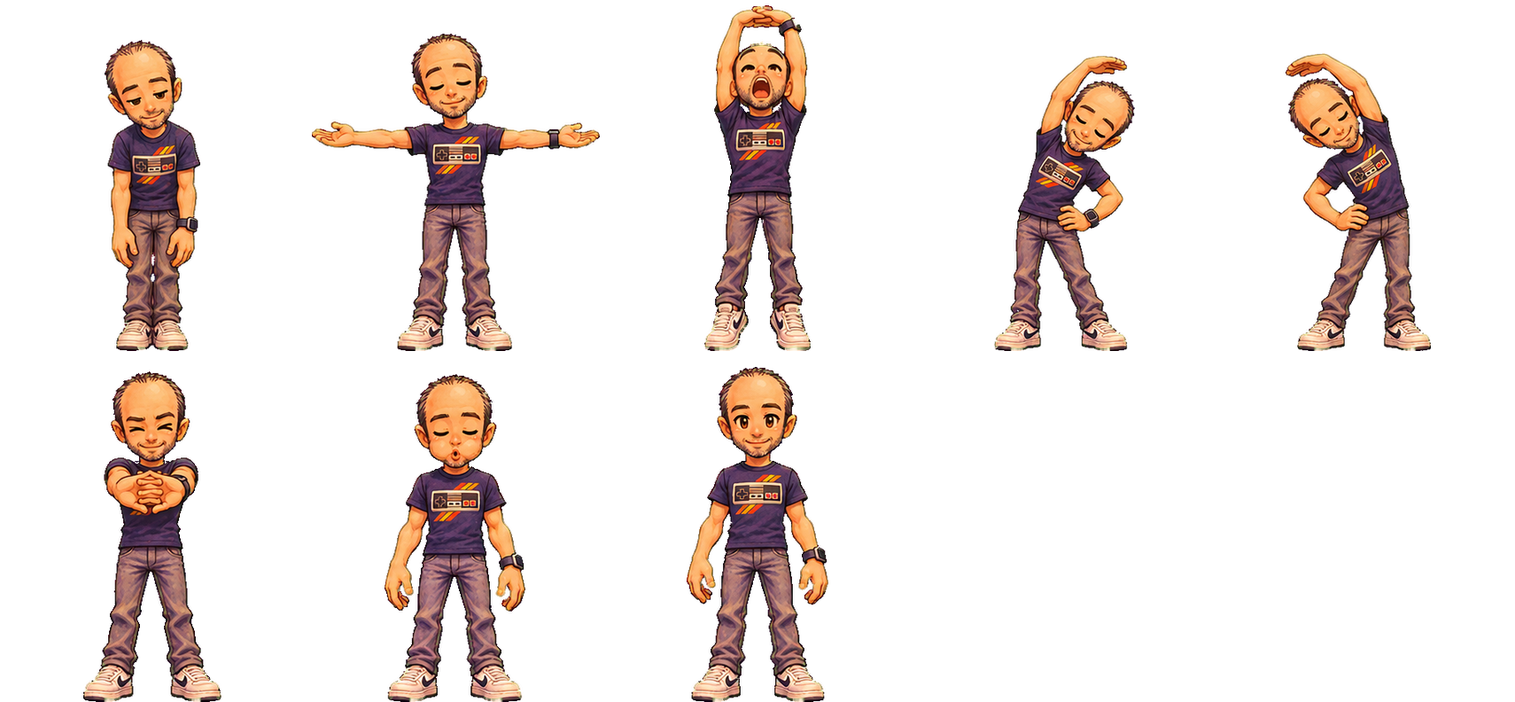
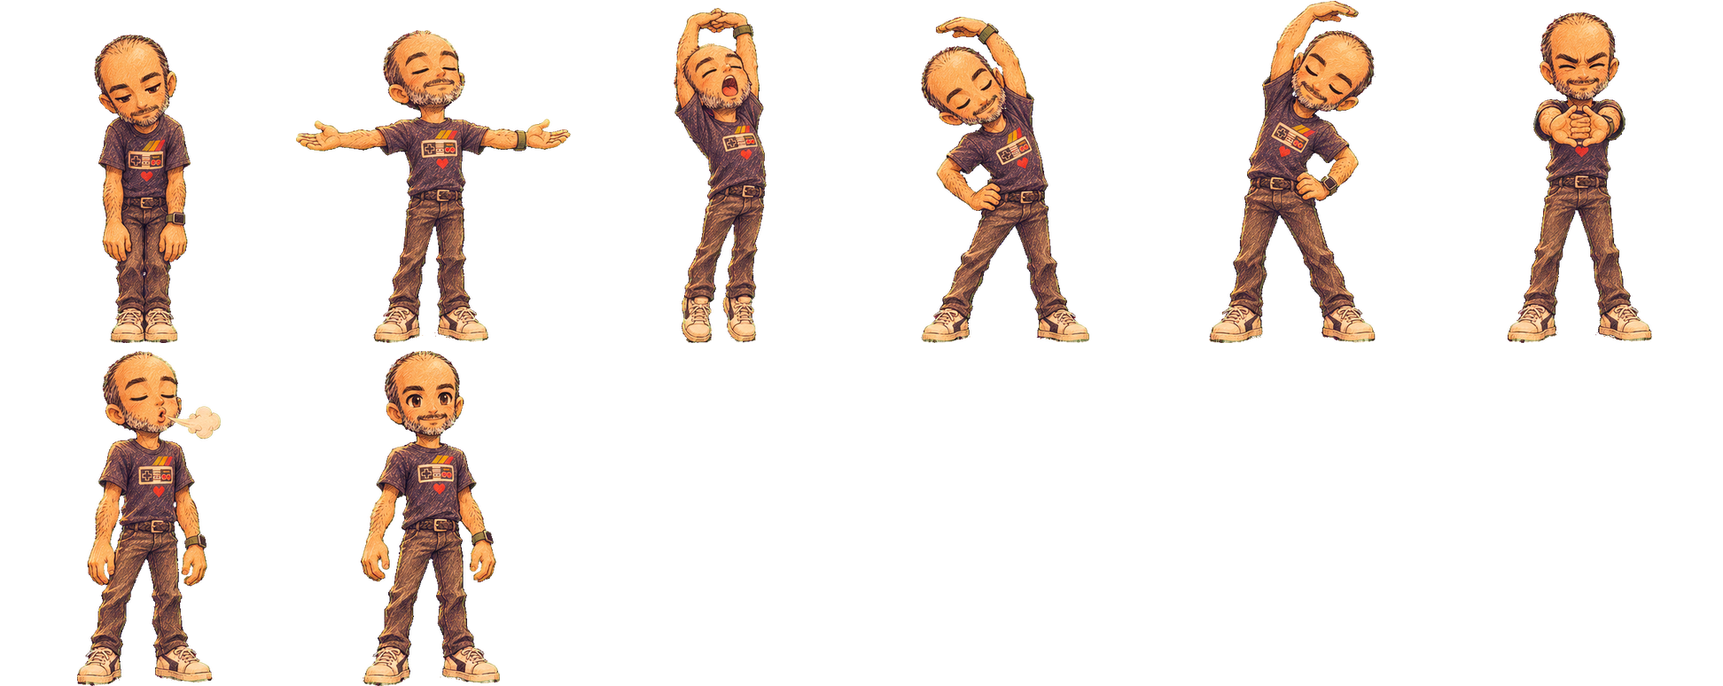
tomstretch2: install Tom's new approved stretch sheet (frames st_stiff to st_fresh)
Claude-Session: https://claude.ai/code/session_01RXeukGgJRkL7Qt5Q4YxBMg

Changed region(s): [[0.031, 0.0, 0.8058, 1.0], [0.8368, 0.0, 0.9608, 0.4961], [0.4339, 0.5271, 0.5579, 1.0]]

diff --git a/data/story-poses.js b/data/story-poses.js
@@ -2,15 +2,15 @@
 // data/story-poses.js — painted cutscene poses (Tom 2026-11-06, storypose1). GENERATED by tools/sprite-bake/bake_story_poses.py; do not hand-edit.
 // rows = small quantized copy of each painted frame at the overworld row scale; atlas = where the painted frame lives (engine/painted.js).
 const STORY_POSES_SRC={
-  tom:{member:"tom",atlas:{"src": "art/chars/tom-story.webp", "k": 9, "rects": {"st_stiff": [0, 0, 342, 396], "st_rise": [342, 0, 342, 396], "st_reach": [684, 0, 342, 396], "st_bendl": [1026, 0, 342, 396], "st_bendr": [1368, 0, 342, 396], "st_push": [0, 396, 342, 396], "st_exhale": [342, 396, 342, 396], "st_fresh": [684, 396, 342, 396]}},pal:{"a": "#2b1a2b", "b": "#38253a", "c": "#4d2731", "d": "#422942", "e": "#4e2e42", "f": "#4b324d", "g": "#563342", "h": "#59384a", "i": "#603d42", "j": "#6d3e3b", "k": "#62434b", "l": "#70494b", "m": "#824c3e", "n": "#9e4928", "o": "#7a4c4e", "p": "#845754", "q": "#815d55", "r": "#a65e37", "s": "#8b5e57", "t": "#bc5c29", "u": "#945f54", "v": "#94685f", "w": "#a46b55", "x": "#a57364", "y": "#cf743a", "z": "#b7775a", "A": "#ac7c6a", "B": "#be856a", "C": "#dd884a", "D": "#d5955f", "E": "#f29c57", "F": "#d9a270", "G": "#f9a85d", "H": "#f5ab67", "I": "#ebb681", "J": "#feb76e", "K": "#ffc177", "L": "#f2c392", "M": "#faca91", "N": "#fbd5a8"},frames:{
-    st_stiff:['......................................','......................................','......................................','......................................','......................................','................jmm...................','...............rDIKDm.................','..............zJJMMKDj................','.............jEGJJKKKj................','.............jEGJJHDDj................','..............yEzHECHrr...............','..............myyEJCwyn...............','..............nyzrJDCy................','..............ntCEEEHw................','................yGyCz.................','................ajzzmb................','...............hbbttuflh..............','..............hkfbglffkk..............','..............ffdhferrbff.............','..............hdgqvzysbfh.............','..............fbejmAljaff.............','..............nrgiuBujjz..............','..............EKjctnfayK..............','..............DGcbcdfarJ..............','..............HKmbdddaCKC.............','..............EJjbfffbrKC.............','..............EHcghegbrK..............','..............EHjxvuwpgvc.............','..............EHpxlcpsmma.............','..............EKDxlauzKG..............','..............HGCzpgvCEK..............','..............yCrzojxrzC..............','...............ymvwjwjyn..............','................rDocBrc...............','................owlcvs................','................lopjol................','................vAlcxA................','................xAicvB................','................ppojsoj...............','................oujcpuc...............','................BFjcBFo...............','...............BLLsoLNF...............','...............NNNwpLNN...............','...............vvFsjFvv...............'],
-    st_rise:['......................................','......................................','......................................','......................................','.................jj...................','...............mCHKFm.................','..............jEJKMMKm................','..............wGJJJFHB................','..............wEwHHzDz................','..............jyEJJJJzj...............','..............jCDCJzwzt...............','..............ttyCEHJCt...............','...............tGGCCEr................','................mCCEu.................','.................jrrn.................','....C............ctCw.................','.CCyyKFIIIEKFihkfdilhklkhBMHIJzcFJyyy.','..CEJGGJKKKJJwddkokmyyhfkGJJKKHgEJGEy.','.........ttnyjaaqqADsvkactttyy.a.yy...','...............aocvArre...............','................kuCzssd...............','................frtjffb...............','................bfffff................','................ffffffb...............','................ffffffb...............','...............bdddddea...............','...............iuvssvvj...............','...............oAvpopAp...............','...............sBpaaoAs...............','...............sAsbapBu...............','...............sAvc.pAv...............','...............pAu..sAs...............','...............uBp..lBv...............','...............xAi..gxx...............','...............hpm..jpg...............','...............vvl..jsx...............','..............lBAc..cvB...............','..............ovsc..csvo..............','..............ippj..ippl..............','..............qxla..clxu..............','..............LLAa..aALL..............','.............NNFv....qFNL.............','............LNNIBu..wBINNL............','............qvLFl....lAIAs............'],
-    st_reach:['......................................','.................MECCM................','................JGtttEDv..............','...............IJn...ccu..............','...............KE.....rK..............','...............ME..I..CMF.............','..............HMyjDMDcrKH.............','..............HHrHJJHHrHH.............','..............GyzrrGwwzyG.............','..............GDrHECGHrCG.............','..............JCyKrcrJtEJ.............','..............JCnDrntDrEH.............','..............ECcjBEzccGE.............','..............robannnabun.............','..............bfdajnjbefa.............','..............bbfkfirreb..............','...............bqqxDwvla..............','...............dqcuAmnlb..............','...............dosBFxwlb..............','...............bhttnhhf...............','................ekhfhhb...............','................dfffffd...............','................ffffhhd...............','...............bfdffddd...............','...............aekhgiic...............','...............iAAvxAAs...............','...............oAslgkxx...............','...............pBvbakAA...............','...............uBve.hxB...............','...............uAvg.ivA...............','...............lAx..jxu...............','...............wBo..cxB...............','...............opo..covi..............','...............ovj...pll..............','..............pApc...lAu..............','..............vxl....gvx..............','..............kspa...lso..............','..............qvkc...gpv..............','..............BFj....cAF..............','..............IIFj...AIL..............','..............NIvu...sBNB.............','.............NNLA....pLNL.............','.............NNNB....xLNNI............','.............ALI......BNFw............'],
-    st_bendl:['......................................','......................................','......................................','......................................','......................................','......................................','......................................','......................KKEyy...........','.....................KGytnt...........','....................KJ................','...................KKt.mwc............','..................EKCcBJKHr...........','..................JCcmJKMMKm..........','.................CKynDzHKKKw..........','.................HJtrDEGHJJr..........','.................JCjEzHJCyCc..........','................jwdcDGGzHyc...........','................dfbaDCEErn............','................addmrzzrn.............','................bqlfjca...............','................llvwngfd..............','...............dqlwzzudkh.............','...............dryBumhafo.............','...............fknlqoa.cCH............','..............bffffda...CKE...........','..............ffffeic...KJy...........','..............ddffgrE.azJy............','..............oogdiCEJui..............','..............AvvvsmrCr...............','.............lBpeipsi.................','.............lBvbakAA.................','.............oAve.esBp................','..............xxc.csAs................','.............oBv...lBx................','.............sBl...cpBl...............','.............els....opl...............','.............oxs....gvB...............','.............sBl....clAw..............','.............pvo.....ivp..............','.............lvo.....iouj.............','.............FBl.....aoFF.............','............LNFv......sFNI............','...........LNNAB......AANNN...........','...........vAIBq......oAIBv...........'],
-    st_bendr:['......................................','......................................','......................................','......................................','......................................','......................................','......................................','...........DHKJI......................','.........tytttyKM.....................','...............tJMH...................','............rzzcyGKC..................','..........cCMMKDanHH..................','..........rJKKKHunEKD.................','..........yGJKFzHnyKH.................','..........rGHDHHwCczGm................','..........cyyDHGDGmbog................','...........ctEzEEEjadf................','............ntEEECrdfb................','..............mrmnuirkb...............','................acdywqk...............','..............bffkvBmrq...............','.............bhffqlxBqkd..............','.............rhbakiztfhd..............','............EGta.bltjfff..............','............JE....addfff..............','............CKF...meffffb.............','.............EKDyHCidfdec.............','..............CGGGDmeipxl.............','................CrmpxvsAq.............','.................csvkckBp.............','.................wBpaapBp.............','................mBxl.csBs.............','................lAAj..vAo.............','................wBp...oBp.............','...............ixvi...iAu.............','...............lou....poi.............','...............xvg....oxu.............','..............wxlc....iBw.............','..............lvs.....oso.............','.............jwpj.....lsp.............','.............BFva.....iAF.............','............LNFAi.....qBLL............','...........LNNBAA.....BANNN...........','...........sALBu......pxIFv...........'],
-    st_push:['......................................','......................................','......................................','................jmrwr.................','...............mEJKMKz................','..............jCGJKKKJm...............','..............jEGHJJJJw...............','..............cCGJJHDDm...............','..............cryrGCrCm...............','..............trynEErztt..............','...............tCEGEHCt...............','...............nCGyCEy................','.................wCEz.................','...............d.crrj.df..............','.............cwuacjmcbwwb.............','.............jJHuzyywmzHj.............','.............rHFGyCCCJwwr.............','.............nEGCtCCyCGj..............','..............nGJyyyyKy...............','...............jrCnyCrc...............','...............acjjgbab...............','...............abaaabf................','...............addddffb...............','...............dfffhffb...............','...............adeeddea...............','...............lvvvuxxj...............','...............vxvopvAs...............','...............AAkabpAv...............','..............lBAo.apAA...............','..............oAAo..lAA...............','..............lAxl..oxA...............','..............iABj..iAB...............','..............wFsc..cpFw..............','..............hsu....osi..............','..............oov....sls..............','..............xAo....kxA..............','.............sBxi....gvBo.............','.............ispl....ivpl.............','.............jvpj....ipup.............','.............AAoa....blxA.............','............FNLFc....aAINI............','...........LNNFqq.....qANNL...........','...........NNNIBw....vBFNNNF..........','...........qvFFl......ivIAqq..........'],
-    st_exhale:['......................................','......................................','......................................','.................cmmm.................','................wEJMKw................','...............mGJKMKJz...............','..............cCGJJJKKEj..............','..............cCGDHHzDDc..............','..............aryrEGCCya..............','..............rrEGEGEHzn..............','..............ttyrEGrryt..............','...............tEJEEKJy...............','................CKCCKG................','.................yyyyt................','.................cttn.................','...............hbbjjhflh..............','..............hhhfbgrmhk..............','..............fdqvADCxffe.............','.............fddqizxjphbh.............','.............jiaolBBzwbcj.............','.............EGjhyymkhcEE.............','.............EEcemjfhfbCH.............','............FKC.dffhff.yJI............','............HKEaffffffaCKJ............','............KE.bffffffb.CK............','...........DKt.beffdfgb..Dv...........','...........HE..oxvvvxxp..gqa..........','...........JJ..xApkkpAx..DE...........','..........EKJD.AAoaapAB..KKC..........','..........CEyE.BAp..kAB.GCEC..........','..........tEn.kAAo..lAB...Et..........','...........yt.hAAl..lxAk.ty...........','..............pFAi..cxFp..............','..............oAp...cpBp..............','..............hkv....vkh..............','..............vxp....oxx..............','..............AAi....kAA..............','.............lpsl....lvpi.............','.............gspo....osvj.............','.............sBpb....bpBx.............','.............NLFc....gILLB............','............NNIqq....vqFNN............','...........LNNLBx....xBLNNN...........','...........qqFIo......qFLvs...........'],
-    st_fresh:['......................................','......................................','.................jmmc.................','................wHKMHr................','...............rGJKMKKm...............','..............jEHJJKKJz...............','..............cCCDJFzEz...............','..............ayyyHCrCr...............','..............nrrjGEczrr..............','..............ttDrHHyHtt..............','...............tEJCCGEr...............','................rECCDr................','.................mzDm.................','.................nttr.................','................bcnukfk...............','..............hkhffjrpkh..............','..............ffvvACywff..............','.............hdgqjBxjqgdh.............','.............ebdooBAzwbdg.............','.............CycoyypkkcyC.............','.............HGcgnjfhfjEH.............','............HJy.fffhff.yKF............','............KKyahhffff.CKH............','............KE.bfffhff..EK............','...........DK..dfdddefb.tHw...........','...........JE..ippqsvvi..ila..........','...........KH..xAvppsAs..zCc..........','..........DJK..AAlacsAv..KK...........','..........CECE.BAoaapBA.CCHE..........','..........tEn.lBAp..lAB.C.Ey..........','...........yt.lAAl..oxA..tC...........','..............hABl..iBB..n............','..............wFvc..csFw..............','..............hpv....psg..............','..............oovj...sop..............','..............xBs....oAx..............','..............Axk....kxA..............','.............ispo....lspj.............','.............ivvl....lpvj.............','.............vBpc....boBx.............','.............NLIi....cFLN.............','............NNLvq....qqLLN............','...........LNNLBw....ABINNM...........','...........qvBIq......lBIvs...........']
+  tom:{member:"tom",atlas:{"src": "art/chars/tom-story.webp", "k": 9, "rects": {"st_stiff": [0, 0, 324, 387], "st_rise": [324, 0, 324, 387], "st_reach": [648, 0, 324, 387], "st_bendl": [972, 0, 324, 387], "st_bendr": [1296, 0, 324, 387], "st_push": [1620, 0, 324, 387], "st_exhale": [0, 387, 324, 387], "st_fresh": [324, 387, 324, 387]}},pal:{"a": "#462c33", "b": "#543639", "c": "#5e3838", "d": "#5f3d3f", "e": "#673e3a", "f": "#654242", "g": "#6c433e", "h": "#6d4643", "i": "#704842", "j": "#7b493e", "k": "#724c47", "l": "#794d46", "m": "#7f4e42", "n": "#815245", "o": "#845747", "p": "#8b5645", "q": "#9e533d", "r": "#92604a", "s": "#9a624a", "t": "#a6623f", "u": "#99684c", "v": "#a96949", "w": "#aa6f4e", "x": "#ad7552", "y": "#bf7546", "z": "#c87843", "A": "#b38058", "B": "#d77b3e", "C": "#c58959", "D": "#d78a4c", "E": "#e68a45", "F": "#d5955d", "G": "#ef9a51", "H": "#d69f68", "I": "#f4a55b", "J": "#eab06f", "K": "#feb161", "L": "#f7bc74", "M": "#fac57e", "N": "#fcd399"},frames:{
+    st_stiff:['....................................','....................................','....................................','....................................','................m...................','..............yFIJAj................','.............yIKMNMCb...............','............jIKKLLKKj...............','............tGIKKKKIv...............','............mGKKKItzyy..............','............eBzyIEyzyz..............','.............ptyBKxtGt..............','.............typDKLKD...............','.............ttEGzyzA...............','...............vytDAh...............','..............mbcqvpkx..............','.............pnbaeqkkor.............','.............nkbdbdqmdo.............','.............lkahlyEjao.............','.............rkapAHxhbro............','.............gkbmuCtedlg............','.............tzbdryoaqy.............','.............GKcahqdaBK.............','.............FKmbddfcEI.............','.............DKqahkbeGG.............','.............zIjagjaaGG.............','.............yIgfiiicyA.............','.............zKjgcegcja.............','.............GLCpbaisGz.............','.............KLKvkbpDMK.............','.............BIGvmgsBII.............','.............tEzppgrtGz.............','..............qqxpgxpq..............','...............isicno...............','...............jdeben...............','...............glgeps...............','...............jsddso...............','...............meedej...............','...............iuibrr...............','...............AHurHC...............','...............JJAuJJA..............','..............JNNHANNL..............','..............CAHCAHAH..............'],
+    st_rise:['....................................','....................................','....................................','....................................','...............CJLM.................','.............mGKLMMM................','.............yIGyHLCw...............','............cyEvFIKGI...............','............jsEGFDKFC...............','............plyGyIGzIz..............','.............pjBIzyzDC..............','.............EyxzCKIJC..............','.............EBrAuAAA...............','................cqqj................','.................EKD................','....J........wxrfsxrlwu.........I...','....DLH.JJJCwrkoohhtBpkrwJJJCxJKG.F.','.FIFKKLLLLLGmfddkxCGDlaftIKLIuIKLID.','..DGGE..BByqbdaaouAHyoadc.zBqb.ED...','...............akxACxo..............','...............bfkmBlk..............','...............jffklkf..............','...............efkhkkk..............','...............goffkkh..............','...............cbblmeb..............','...............jimijli..............','...............jsrnmnm..............','...............jrnbaim..............','...............mrgabps..............','...............nrp.grx..............','...............pwn.esv..............','..............svw..gsu..............','..............jvr..inu..............','..............roc..cgb..............','..............sde..ggp..............','.............enpj..ens..............','.............svsc..cps..............','.............jcig..jjie.............','.............uxmg..eguw.............','............pHHA...eAHHu............','............JJJx...FrHMM............','...........JNNHCC..FxHMNL...........','...........xCJH......CJJF...........'],
+    st_reach:['....................................','.................Dz.................','..............ILIDDILH..............','..............Kzjqqjru..............','..............LD....pF..............','.............FLD....EMF.............','.............IGFMMMCyKF.............','.............GBGyIKFyII.............','.............yBzFDIGCGI.............','.............ztGzGICIGI.............','.............GvBGKyczHF.............','.............GGjDIBBDCy.............','.............BChAFCGFkl.............','.............jokbnmscbol............','.............dfkbeBEedf.............','..............fffhpwpqc.............','..............gddlklzEl.............','...............ddhuxHCw.............','................fdruxCxr............','................cdfklqnk............','.................cffkkkk............','.................jdfhkoi............','.................ehlkfkl............','.................mkbcnib............','.................ecggmgc............','.................pnrsprm............','................tuwpefnj............','................jsrgabp.............','................mplcblu.............','................jpm.epu.............','................rwm.jur.............','...............jwr..jro.............','...............vrb..pfa.............','..............trhg.pll..............','..............eprc.eru..............','..............supg.spon.............','..............pglc.eeme.............','..............rCA..uwH..............','..............FHC..CHH..............','..............AHA..nHC..............','..............MMH..HMM..............','..............MNM..CMNJ.............','..............yFA...FFt.............'],
+    st_bendl:['....................................','....................................','...........HLMM.....................','..........zyyGKCj...................','............qqeoF...................','...............jKL..................','..........xCHx..DKI.................','.........FLNMLI..GKD................','........tKKLLKFt.BKG................','........zKKKKItKyyKK................','........DIKKIIKCztDLD...............','........qGGtzKKFGAlFz...............','........cwzBICKGyCdkoe..............','.........dmByDDtIuahk...............','..........tqBGyFAnbhd...............','...........BprretGkkf...............','..............abywozob..............','.............rlkfdzEAn..............','............skklkuCCyr..............','...........wohbakxrHvr..............','..........Jyffaadooqqll.............','..........LEea..bbfkkkd.............','..........GKD...cddhllo.............','...........EKD.DDgdfhdc.............','............DKEKGjacoea.............','.............EIGyggeiej.............','...............ejnurppp.............','...............crvoeagp.............','...............ssmcabis.............','..............vwpi..dmxw............','..............ssre..cnww............','.............CAug...bmxs............','.............upo.....ewA............','............rmog.....goi............','............vsg......gig............','...........rxpg......glrr...........','...........CAj.......clsu...........','..........jpmc........enog..........','..........urmj........jgmo..........','.........rHHua........aoHH..........','.........JJHx.........xxHJH.........','........NNMAC.........FCuMNN........','........FHJCu..........xAHJH........'],
+    st_bendr:['.....................MMJ............','...................JLKEvDy..........','..................JMBjqq............','.................JLG................','.................KKG.pCFyt..........','................EKG.tKKMMKv.........','................GK..yGKLMMKj........','................KKtzGqIKKLLy........','...............EKztzFGGKKKKy........','...............yyfyGyIKBtGGj........','..............glhbCyGKDGDyya........','..............ikdaoGtDGtEpc.........','...............ddacCIyDEqt..........','...............dkbttpsxpBB..........','...............lkfoyc...............','..............plxrjjfkr.............','..............puuAFBqlur............','..............oouHyxhbhww...........','.............yofqyxrabhlw...........','.............rffqqkfaadjGL..........','.............rofhffa...zKK..........','............srfhhfdr...IKB..........','.............baolbjII.kFB...........','.............jclecjEKIne............','............mvsnprjtDGt.............','............jpgipppia...............','............mpcaadprg...............','............ssjb.cjsu...............','............wspc.blpxs..............','............wvp...grwu..............','...........gvwg....pvs..............','...........rArc....bpAv.............','...........wspc....cpnj.............','...........eeic.....cirp............','...........ggoi.....egpx............','...........psp......enpvj...........','...........smc.......cpsu...........','..........jghj.......egeng..........','..........ACpe........gnAx..........','..........CHHi........iHHHu.........','.........MJJuC........FoJJN.........','........LNNJxH........DxHMNN........','........AHJJy..........sCJJH........'],
+    st_push:['....................................','....................................','...............myIICp...............','..............pIKKMNMp..............','.............czIIKLLLC..............','.............gzIKIKKKG..............','.............iyEFKKIDC..............','.............itzjtEjtzt.............','.............BqBvzGyDzt.............','.............ByBGGGFGD..............','..............qyyyyyCA..............','................rDFHr...............','..............p.ajpj.j..............','.............CHgoyvsfHx.............','.............FMHDyvDHFGc............','............aEIIEEGBKAya............','............amEIEEEBKzc.............','.............acDGyxGDb..............','..............eafqtjba..............','..............jfaeqdk...............','..............rfdffkfk..............','..............jlhdffkf..............','..............gbbomcf...............','..............ejiiggj...............','..............rsrprrrj..............','..............sslgcgri..............','..............vsiaaism..............','.............txne.clss..............','.............svri..luw..............','.............pws...gsx..............','.............vxo...crx..............','............jxxg...epxs.............','............mvic....jec.............','............tme.....jhm.............','............pjp.....jmv.............','............svp.....irw.............','...........vwoe.....blpr............','...........gmge.....gngj............','...........AHue.....egrHx...........','...........HHHk......uJHC...........','..........NMMuA......FoMNN..........','.........HNNJCC.....xFxJMNJ.........','.........yHJJy.........FJHx.........'],
+    st_exhale:['....................................','................wFJ.................','..............jDKLMNL...............','..............yIKKLLMJ..............','.............eBGztILyt..............','.............eyEyIIKKI..............','.............mpEGCDKDy..............','.............pjyEzIGGIy.............','.............EBtEIKIDLt..NN.........','..............EyCGIGBJJNNNNN........','...............cnuwFF..NNNN.........','.................qtp.....N..........','..............FygtIDex..............','..............Asoksrlup.............','.............rpfhlhpBqf.............','.............vobbrxFFpb.............','.............wobaurHypdr............','.............endauuCAmbl............','.............zBabfhqqdjq............','.............LGcdfllkbzK............','............HKIefkfhkdBKy...........','............DKGmrdfhfhBID...........','............DKBeddgrnbtID...........','............BG.aeecjcb.GI...........','............GG.mprporj.txd..........','............LK.pvrjein.pCj..........','...........LMKxsujaalp.KME..........','...........GKGvspgados.GIG..........','...........zGEvssi.epwvBGz..........','............Bqjwo..epw.BB...........','.............twxg..epw..............','.............pxs...miwu.............','.............sob...bnga.............','............spde...tmfg.............','............jnom...mlpp.............','............pwpc...cmsp.............','............vog.....ilm.............','............jdh....tjcn.............','...........uHAe....ceuCH............','...........AHJu.....uHJHA...........','..........MNMHu.....LkCMNN..........','..........MNNHx.....FAFMMNF.........','..........AFJF..........H...........'],
+    st_fresh:['....................................','...............tFFA.................','..............yKKLNJ................','.............tIIKLLMH...............','............ayGKKKKKIj..............','............gvEvyKIvym..............','............ipBjjIGewu..............','.............mzupKKwCy..............','............BBtIIGDGGy..............','.............BtDzyyyC...............','...............uwFIH................','................enr.................','................tBE.................','.............FxokooorA..............','.............wkolktBto..............','............rldbuAHCwfh.............','............AlaaurHAybl.............','...........cjlbaouxxrbke............','............ztabdfqqkgq.............','............Kz.bkkfkkqI.............','...........JK..edkolhpKI............','...........IK..ohhhfdpGI............','..........DKE..kbaoocaEKD...........','..........FK...cgfigg..IC...........','..........KG...pouppri.mwb..........','..........KL..mvwoicmm.ALz..........','.........LMIF.vxseabrp.KLI..........','.........zIDD.vwmcaisr.DGG..........','..........EE..vsr..luv.BIz..........','..........qt..swo..jru..z...........','.............xwxg..esu..............','.............pAp...gpx..............','.............unb...bnc..............','............ppee...phi..............','............jmpj...jiv..............','............txr....bmup.............','............spm....biop.............','...........emgn.....mel.............','...........rHAn.....brCC............','...........AHHx.....rCJHA...........','..........MNMHu.....MfCMNN..........','..........MNNHC.....JCFLNNH.........','..........CHJH.........JJH..........']
   }},
   grace:{member:"grace",atlas:{"src": "art/chars/grace-story.webp", "k": 10, "rects": {"sq_hide": [0, 0, 220, 400], "sq_reveal": [220, 0, 220, 400], "sq_raise": [440, 0, 220, 400], "sq_show": [660, 0, 220, 400], "sq_hug": [880, 0, 220, 400], "sq_squeeze": [1100, 0, 220, 400], "sq_careful": [1320, 0, 220, 400], "sq_wave": [1540, 0, 220, 400]}},pal:{"a": "#381f23", "b": "#4d2727", "c": "#532e2f", "d": "#5a3335", "e": "#5f3a37", "f": "#6e3a33", "g": "#71433e", "h": "#7e453b", "i": "#8c4937", "j": "#875244", "k": "#99533d", "l": "#b0602a", "m": "#965a4a", "n": "#976540", "o": "#a65e48", "p": "#b06b37", "q": "#bd6c30", "r": "#9b665d", "s": "#b06257", "t": "#aa6c61", "u": "#ae7656", "v": "#ce7d3c", "w": "#bf7652", "x": "#b87d58", "y": "#b96d6f", "z": "#bd8260", "A": "#bc8a64", "B": "#d88d49", "C": "#d79955", "D": "#ce8078", "E": "#cc8d77", "F": "#ea9d55", "G": "#db8e85", "H": "#d79a83", "I": "#f1ac62", "J": "#e8a08a", "K": "#f0ae8c", "L": "#f8b67d", "M": "#f9bd87", "N": "#fbc686"},frames:{
     sq_hide:['......................','......................','........BCFNC.........','.......qvvBINv........','......pIFlkwIIp.......','.....pCBvqivIFp.......','.....klqFIFvIIFF......','....ovlBLIILvqBvq.....','....wifFFILIBpbqB.....','...mfffvwFLCnpiqv.....','....hilvunNCxBiBl.....','....klfoFILLIujlFq....','...jvljDwCIIxJKjvIC...','...vFfryyrpoDDEmllv...','...kqctGytryyDMtli....','...iqfDyKDGDKJGEiF....','....ikGrJJKGKGyJfq....','....ihDrDDJDHHyDfq....','....iyDjDGKJJDmJn.....','.....jDgDJJKJDrD......','......jDDJGGJJEd......','......rJJMJJMKK.......','.......yyDGDtyG.......','.......yDyjbghg.......','.......bgmcatra.......','.......dgrbafjh.......','.......rgggcgrt.......','.......bgjgdGga.......','........tDcbrhb.......','.......cjjcaamD.......','.......jgecdjbe.......','.......dcegghdc.......','.......abebaeh........','........rEjmJH........','.......AxzzAxuE.......','.......zturrurA.......','.......rHEjjEJx.......','.......KNKttKMM.......','......EMJMEELJNH......','.......jcnAAncj.......'],

diff --git a/engine/painted.js b/engine/painted.js
@@ -11,7 +11,7 @@
 // Atlas: one image of equally sized frames at K times the rows' resolution. Battle sheets are K = 3 (Boppy 4) since sharp1
 // (2026-11-05, Tom: the party looked blurry in battle; K = 2 was stretched up to 1.45x on a phone). See tools/sprite-bake/hires.py.
 // ART_V: cache tag for every painted atlas image (2026-11-01, heads1: all adult battle heads re-baked).
-const ART_V='tomride3';
+const ART_V='tomstretch2';
 const PAINTED={};
 // Cast ids that own painted sheets (paintedOwners, below). Longer prefixes first: tomride before tom.
 const PAINTED_CAST=['tomride','tom','grace','rose','tnb','amy','deedee','boppy','nara','justin','olivia','jojo','michael','ellie'];

diff --git a/tools/sprite-bake/bake_story_poses.py b/tools/sprite-bake/bake_story_poses.py
@@ -27,7 +27,7 @@ COLORS = 40
 
 # id: sheet, K (= that character's overworld K), standing height in rows (= its overworld stand frame), reference frame, frame names in reading order.
 SETS = {
-    'tom': {'sheet': 'tom-stretch-intro-sheet-v1.png', 'k': 9, 'h': 42, 'ref': 'st_fresh',
+    'tom': {'sheet': 'tom-stretch-intro-v1.png', 'k': 9, 'h': 42, 'ref': 'st_fresh',
             'names': ['st_stiff', 'st_rise', 'st_reach', 'st_bendl', 'st_bendr', 'st_push', 'st_exhale', 'st_fresh']},
     'grace': {'sheet': 'grace-squishy-intro-sheet-v1.png', 'k': 10, 'h': 39, 'ref': 'sq_squeeze',
               'names': ['sq_hide', 'sq_reveal', 'sq_raise', 'sq_show', 'sq_hug', 'sq_squeeze', 'sq_careful', 'sq_wave']},
@@ -112,11 +112,6 @@ def stand_frame(cid):
     im = Image.open(os.path.join(ROOT, src)).convert('RGBA').crop((x, y, x + w, y + h))
     return im.crop(im.getbbox()), k
 
-
-# Tom's stretch poses (Tom 2026-11-06 16:02: "his stretching states are also not the same size as his regular body"). Compared in the real game against his
-# standing frame (not by bounding box: raised arms and bends change the box): the two side bends read about 15 percent bigger in head and torso, Stiff and Rise
-# heads about 5 percent. Factors are one uniform scale per frame about the feet; Reach (arms overhead, head reads smaller) is left as painted.
-STRETCH_FIT = {'tom': {'st_stiff': .96, 'st_rise': .96, 'st_bendl': .88, 'st_bendr': .88}}
 
 def npc_emo_head(pid):
     """Strip px per standing-frame atlas px for a townsperson (see the npcemo7 note above)."""
@@ -265,8 +260,6 @@ for cid, S in SETS.items():
     f = S['h'] * S['k'] / figs[S['ref']].height
     if 'strip' in S and S['member'] in EMO_HEAD:
         f = S['k'] / (EMO_HEAD[S['member']] * stand_frame(S['member'])[1])   # strip px -> standing px -> game rows -> atlas px
-    if cid in STRETCH_FIT:
-        figs = {n: (im.resize((round(im.width * STRETCH_FIT[cid].get(n, 1.0)), round(im.height * STRETCH_FIT[cid].get(n, 1.0))), Image.LANCZOS) if STRETCH_FIT[cid].get(n, 1.0) != 1.0 else im) for n, im in figs.items()}
     big = place({n: scaled_to(im, f) for n, im in figs.items()}, S['k'], {n: v * f for n, v in S.get('feet', {}).items() if v})
     small = {n: hard(scaled_to(v, 1.0 / S['k'])) for n, v in big.items()}
     pal, rows = quantize(small, COLORS)

diff --git a/docs/CHANGES.md b/docs/CHANGES.md
@@ -1,3 +1,8 @@
+## 2026-11-13 (tomstretch2): Tom's new approved stretch sheet is in the game (tag tomstretch2)
+- Tom 18:45: "approved new images there, implement in the game now" (Art Library `tom-stretch-intro`, new picture `art/raw/characters/tom-stretch-intro-v1.png`, 8 frames, 4 x 2).
+- Fact: `tools/sprite-bake/bake_story_poses.py` set `tom` now cuts the new sheet (same frame names `st_stiff` to `st_fresh`, same order and 42-row standing size, so `engine/intro.js` `STRETCH_SEQ` is unchanged). Rebuilt `art/chars/tom-story.webp` and `data/story-poses.js`; every other set came out byte for byte unchanged. Tags `tomstretch2` (story-poses.js, painted.js ART_V, main.js stamp).
+- Painted as painted: `STRETCH_FIT` (the per-frame shrink factors made for the old sheet, CHANGES 43/402) is purged, no frame is resized. The new sheet differs from the old one: red heart under the controller on the shirt, belt, arm hair, and a small painted breath puff in Exhale (it is part of the picture).
+- Looked at: all 8 frames play in order in the real arrival (chapter 3 jump), portrait 390 x 844 and landscape 844 x 390, 0 page errors, 0 404s.
 ## 2026-11-12 (starter1): chapter 2 "Feed the starter" scene now starts wherever Tom stops in his house (tag starter1)
 - Tom 18:49: at the kitchen island, A on the starter gave only the island caption. Fact (cause): trigger `ch2-starter` (data/scenes.js) only fired while Tom stood still inside a box in the front hall (x7 to 8, y9 to 12); walking past it without stopping meant the scene never started, and A fell through to the island object.
 - Fix: the box (`at`) is removed from that trigger; it starts when Tom stops anywhere in the house with `ch2-nara` set and `ch2-starter` not set. The scene already walks him to the island itself. No line, flag or voice changed.
